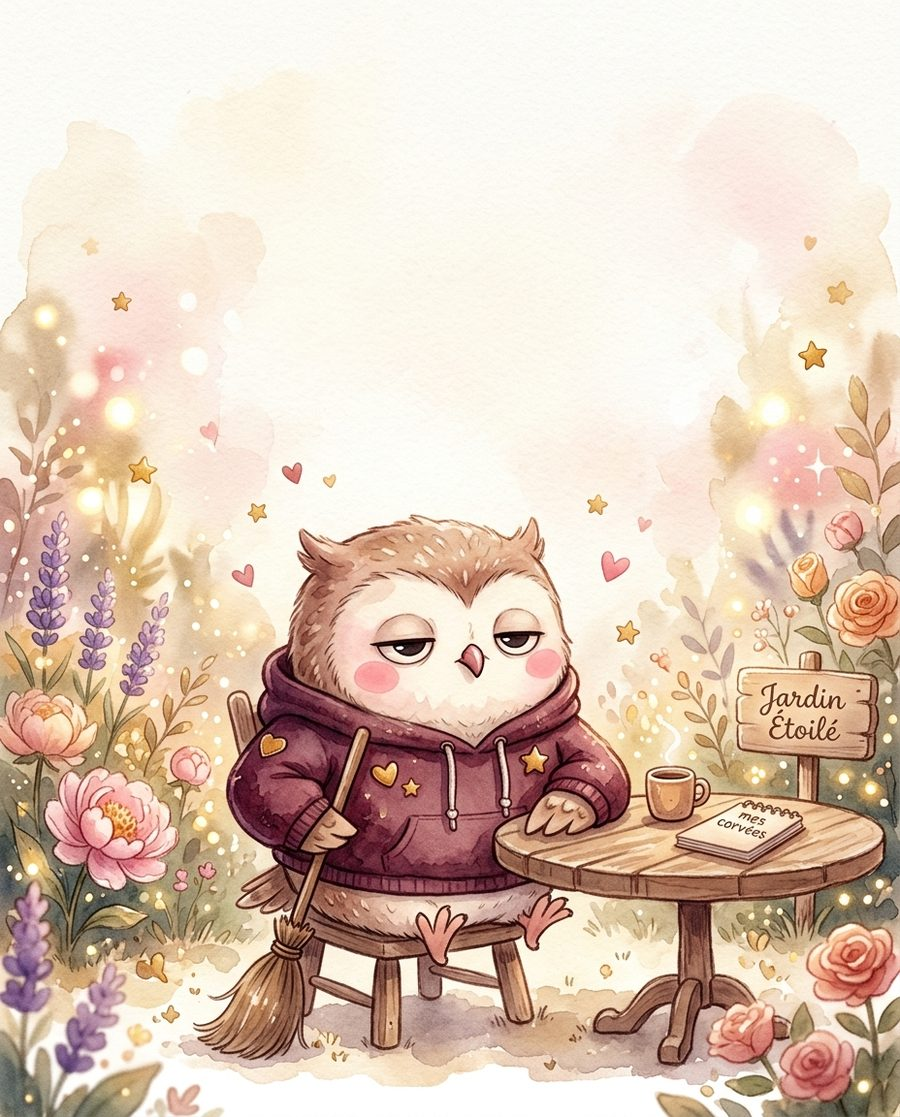
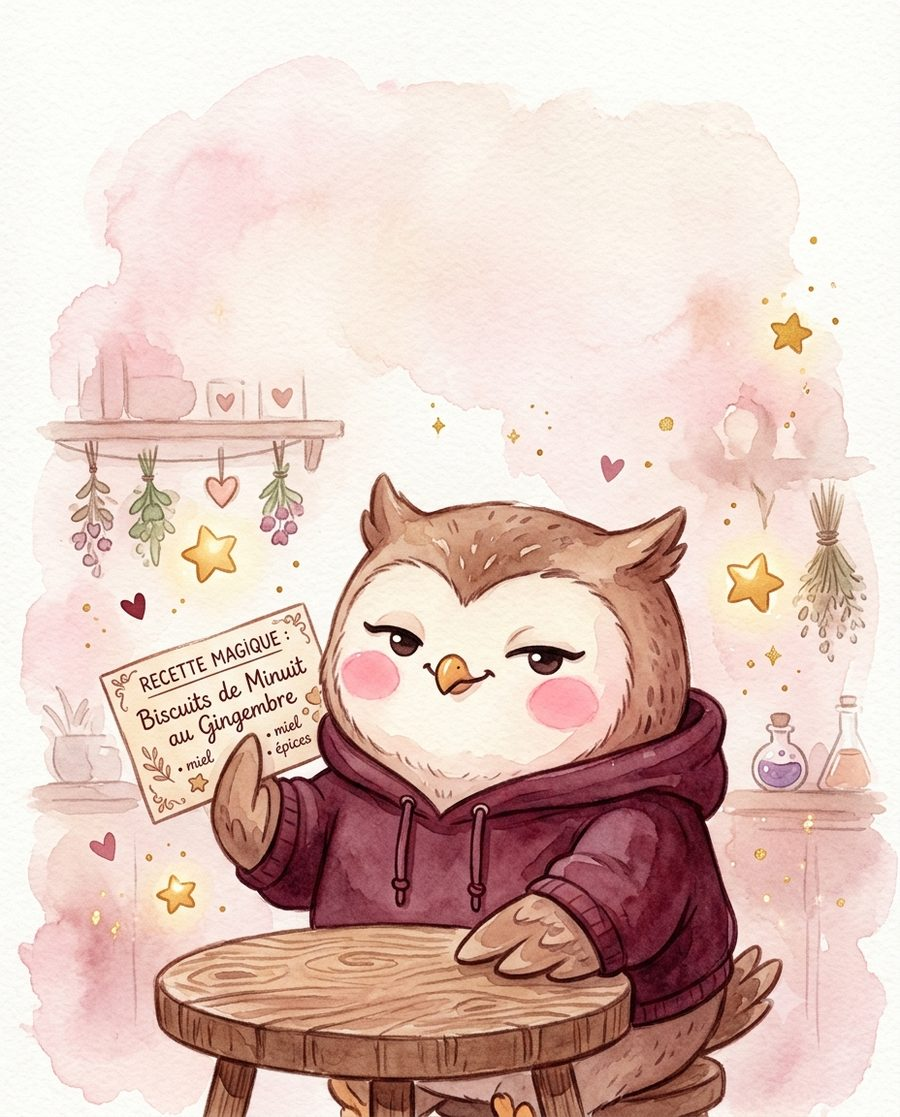
Ajuste les visuels : chouettes souriantes pour Mystique/Boutique, image sur la newsletter, retire celle du podcast
- Le Coin Mystique et La Boutique avaient des expressions trop neutres/
  fatiguées, remplacées par des poses plus enjouées.
- Retire l'illustration du Coin Cosy : la vignette d'épisode Spotify
  suffit, doublon inutile.
- Ajoute une chouette chaleureuse en haut de l'encart newsletter pour
  donner envie de s'abonner.

diff --git a/index.html b/index.html
@@ -267,6 +267,7 @@
   }
   .carte-podcast {
     grid-column: span 2;
+    padding-top: 28px;
   }
   .newsletter-box {
     grid-column: span 1;
@@ -381,9 +382,11 @@
     background: var(--nuit-2);
     border: 1px solid var(--border);
     border-radius: 20px;
-    padding: 28px 26px;
+    padding: 0 26px 28px;
     text-align: center;
+    overflow: hidden;
   }
+  .newsletter-box .intro-eyebrow { margin-top: 18px; }
   .newsletter-box p:not(.intro-eyebrow) {
     color: var(--text-secondary);
     line-height: 1.6;
@@ -459,7 +462,7 @@
 
       <!-- Le Coin Mystique -->
       <div class="carte carte-mystique">
-        <img class="carte-visuel" src="images/carte-mystique.jpg" alt="La Chouette Cosy tire les cartes de tarot à la lueur des bougies" loading="lazy">
+        <img class="carte-visuel" src="images/carte-mystique.jpg" alt="La Chouette Cosy ravie, sa tisane à la main devant son carnet de notes magiques" loading="lazy">
         <h2>Le Coin Mystique</h2>
         <p class="desc">Ton grimoire numérique : tarot, pierres, rituels, astrologie et bien plus.</p>
         <div style="display:flex; gap:10px; justify-content:center; flex-wrap:wrap;">
@@ -470,7 +473,7 @@
 
       <!-- Boutique -->
       <div class="carte carte-boutique">
-        <img class="carte-visuel" src="images/carte-boutique.jpg" alt="La Chouette Cosy avec son balai dans un jardin fleuri" loading="lazy">
+        <img class="carte-visuel" src="images/carte-boutique.jpg" alt="La Chouette Cosy, malicieuse, présente sa recette magique" loading="lazy">
         <h2>La Boutique</h2>
         <p class="desc">Mugs, tee-shirts, casquettes et tote bags à l'effigie de la chouette.</p>
         <a class="bouton" href="https://la-chouette-cosy.tpopsite.com/" style="text-decoration:none;">Découvrir la boutique →</a>
@@ -490,7 +493,6 @@
       <!-- Le Coin Cosy (podcast) — seule sur sa ligne, pleine largeur, pour que
            le lecteur Spotify s'affiche en entier sans défilement interne. -->
       <div class="carte carte-podcast">
-        <img class="carte-visuel" src="images/carte-podcast.jpg" alt="La Chouette Cosy enregistre le podcast avec son micro et son cacao" loading="lazy">
         <h2>Le Coin Cosy</h2>
         <p class="desc">Le podcast : bien-être, sorcellerie légère et entrepreneuriat féminin.</p>
 
@@ -515,6 +517,7 @@
 
       <!-- Newsletter, juste à côté du podcast -->
       <div class="carte newsletter-box">
+        <img class="carte-visuel" src="images/carte-newsletter.jpg" alt="La Chouette Cosy blottie sous un plaid avec un chocolat chaud" loading="lazy">
         <p class="intro-eyebrow">Rejoins le cercle</p>
         <h2 style="font-family:'Fraunces',serif; font-weight:500; font-size:21px; margin:0 0 8px;">La newsletter du Coin Cosy</h2>
         <p>Chaque jeudi : le nouvel épisode, une citation qui fait du bien, et une petite fiche pour explorer un coin du grimoire.</p>
